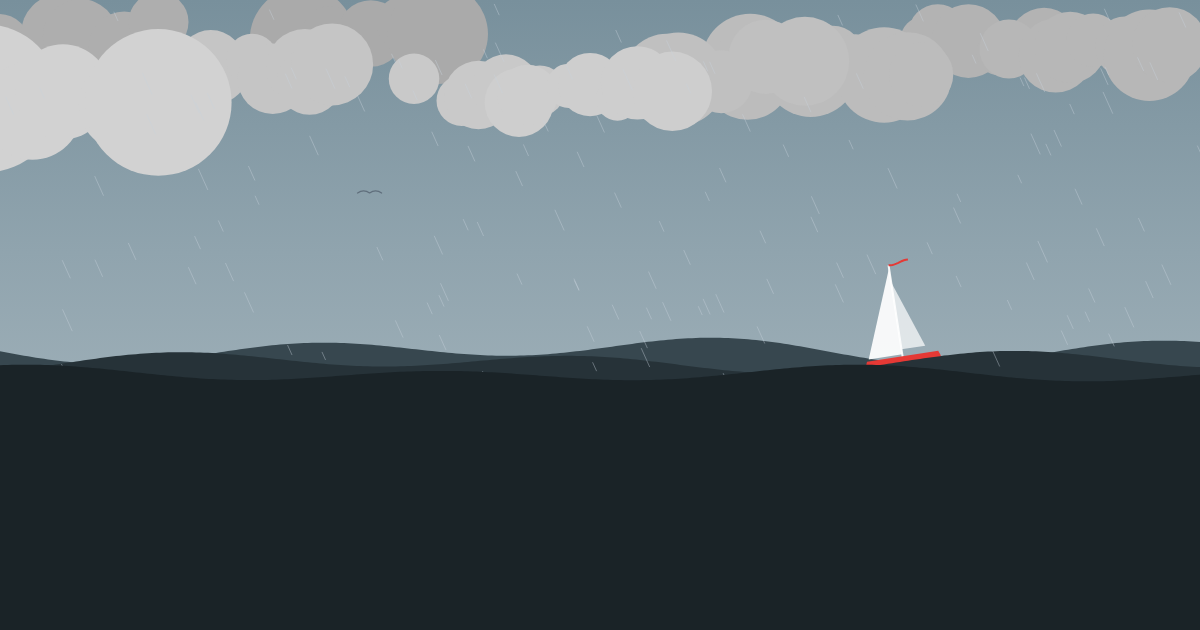
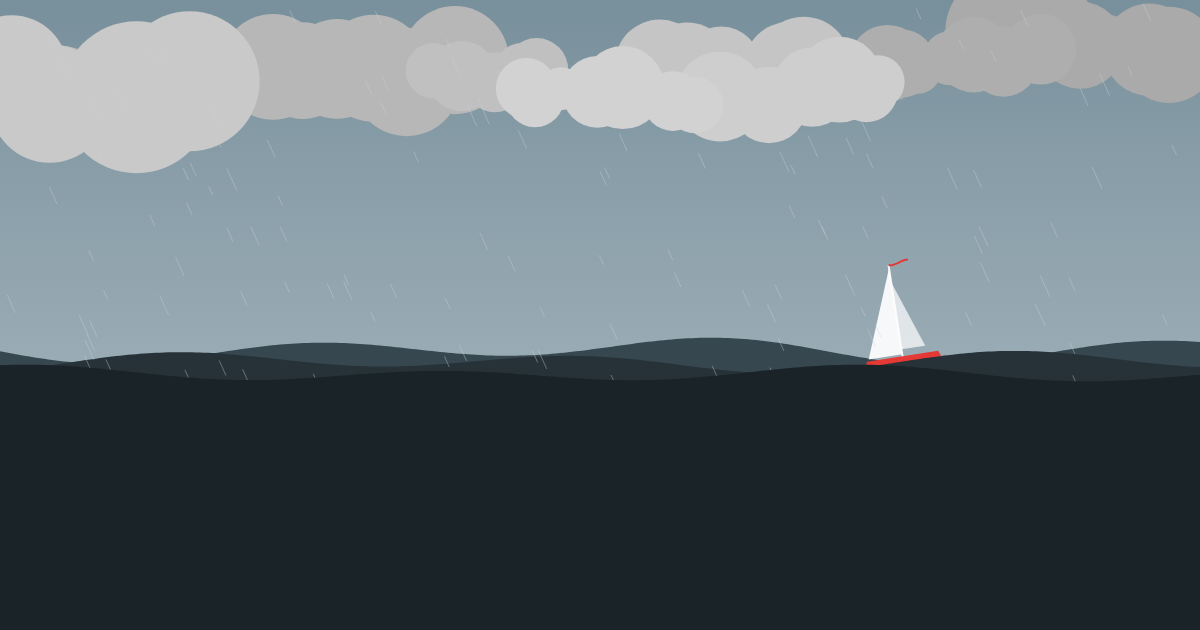
Robots.txt and some things

diff --git a/static/simulation.js b/static/simulation.js
@@ -236,6 +236,15 @@
         return '#'+((1<<24)|(r<<16)|(g<<8)|bl).toString(16).slice(1);
       }
 
+      // Bird scheduling state. First appearance is random 20-60s after load so
+      // the bird never shows up at t=0 mid-flight, and it always enters from
+      // off the left/right edge rather than popping into view on screen.
+      var birdCrossDur = 28;  // seconds to cross (slower than before)
+      var birdInFlight = false;
+      var birdStartAt = 0;
+      var birdDirection = Math.random() < 0.5 ? 1 : -1;
+      var nextBirdAt = 20 + Math.random() * 40;
+
       var t = 0;
       function draw() {
         t += 0.016;
@@ -326,34 +335,45 @@
         }
 
         // --- Bird ---
-        // A distant seagull silhouette. Each cycle the bird crosses the sky
-        // once then stays off-screen for the remainder, so appearances are
-        // infrequent. Suppressed in heavy precip / storm conditions.
-        var birdCycle = 55 - windFactor * 15; // seconds between appearances
-        var birdVisibleFrac = 0.22;           // fraction of cycle the bird is visible
-        var cyclePhase = ((t + 3) % birdCycle) / birdCycle;
-        if (!isStormy && !hasEffect('heavyrain') && !hasEffect('hail') && cyclePhase < birdVisibleFrac) {
-          var birdPhase = cyclePhase / birdVisibleFrac; // 0..1 across the screen
-          var bx = -40 + birdPhase * (W + 80);
-          // Sit closer to the horizon to read as distant (atmospheric perspective).
-          var bobY = Math.max(60, horizon * 0.55);
-          var by = bobY + Math.sin(t * 0.9) * 5 + Math.sin(t * 0.4) * 3;
-          var flap = 0.55 + Math.sin(t * 7.5) * 0.45; // 0..1
-          var wingSpan = 12;
-          var wingDip = 5 * flap;
-          ctx.save();
-          ctx.strokeStyle = isFoggy ? 'rgba(110,118,130,0.4)' : 'rgba(60,70,85,0.55)';
-          ctx.lineWidth = 1.3;
-          ctx.lineCap = 'round';
-          ctx.lineJoin = 'round';
-          ctx.beginPath();
-          // Left wing arc
-          ctx.moveTo(bx - wingSpan, by);
-          ctx.quadraticCurveTo(bx - wingSpan * 0.5, by - wingDip, bx, by);
-          // Right wing arc
-          ctx.quadraticCurveTo(bx + wingSpan * 0.5, by - wingDip, bx + wingSpan, by);
-          ctx.stroke();
-          ctx.restore();
+        // Distant seagull silhouette, scheduled with random gaps between
+        // appearances. Always enters from off-screen; never visible at load
+        // time. Suppressed in heavy precip / storm conditions.
+        var birdAllowed = !isStormy && !hasEffect('heavyrain') && !hasEffect('hail');
+        if (birdAllowed) {
+          if (!birdInFlight && t >= nextBirdAt) {
+            birdInFlight = true;
+            birdStartAt = t;
+            birdDirection = Math.random() < 0.5 ? 1 : -1;
+          }
+          if (birdInFlight) {
+            var elapsed = t - birdStartAt;
+            if (elapsed >= birdCrossDur) {
+              birdInFlight = false;
+              // 45-120s quiet gap before the next bird.
+              nextBirdAt = t + 45 + Math.random() * 75;
+            } else {
+              var birdPhase = elapsed / birdCrossDur; // 0..1
+              var bx = birdDirection === 1
+                ? -40 + birdPhase * (W + 80)
+                : (W + 40) - birdPhase * (W + 80);
+              var bobY = Math.max(60, horizon * 0.55);
+              var by = bobY + Math.sin(t * 0.9) * 5 + Math.sin(t * 0.4) * 3;
+              var flap = 0.55 + Math.sin(t * 7.5) * 0.45;
+              var wingSpan = 12;
+              var wingDip = 5 * flap;
+              ctx.save();
+              ctx.strokeStyle = isFoggy ? 'rgba(110,118,130,0.4)' : 'rgba(60,70,85,0.55)';
+              ctx.lineWidth = 1.3;
+              ctx.lineCap = 'round';
+              ctx.lineJoin = 'round';
+              ctx.beginPath();
+              ctx.moveTo(bx - wingSpan, by);
+              ctx.quadraticCurveTo(bx - wingSpan * 0.5, by - wingDip, bx, by);
+              ctx.quadraticCurveTo(bx + wingSpan * 0.5, by - wingDip, bx + wingSpan, by);
+              ctx.stroke();
+              ctx.restore();
+            }
+          }
         }
 
         // --- Lightning bolts ---
@@ -683,4 +703,3 @@
         }
       });
     })();
-    

diff --git a/wind_notice.py b/wind_notice.py
@@ -2,6 +2,7 @@
 """Fern Ridge Sailing Forecast - 7-day forecast scored for sailing quality."""
 
 import argparse
+import hashlib
 import logging
 import os
 import random
@@ -315,13 +316,30 @@ def get_score_color(score):
         return "#b71c1c"  # red
 
 
+def _compute_simulation_js_version():
+    """Hash static/simulation.js for cache busting. Computed once at import."""
+    path = os.path.join(os.path.dirname(os.path.abspath(__file__)), "static", "simulation.js")
+    try:
+        with open(path, "rb") as f:
+            return hashlib.sha256(f.read()).hexdigest()[:12]
+    except OSError:
+        return ""
+
+
+_SIMULATION_JS_VERSION = _compute_simulation_js_version()
+
+
 def _simulation_block(cond_cloud, cond_wind, cond_gust, cond_precip, cond_temp, cond_weather_code):
     """Return the <canvas> + simulation bootstrap for inclusion in a page.
 
     The heavy simulation JS lives in static/simulation.js so browsers can
     cache it; here we just emit the canvas, inject initial weather values as
-    a small global, and load the external script.
+    a small global, and load the external script. The script URL carries a
+    content-hash query string so browsers re-fetch it when the file changes.
     """
+    src = "/static/simulation.js"
+    if _SIMULATION_JS_VERSION:
+        src += "?v=" + _SIMULATION_JS_VERSION
     return (
         '    <canvas id="bg-canvas" style="position:fixed;top:0;left:0;'
         'width:100%;height:100%;z-index:0"></canvas>\n'
@@ -330,7 +348,7 @@ def _simulation_block(cond_cloud, cond_wind, cond_gust, cond_precip, cond_temp, 
         f'"gust": {cond_gust:.1f}, "precip": {cond_precip:.2f}, '
         f'"temp": {cond_temp:.1f}, "weather_code": {cond_weather_code}'
         '};</script>\n'
-        '    <script src="/static/simulation.js"></script>'
+        f'    <script src="{src}"></script>'
     )
 
 

diff --git a/app.py b/app.py
@@ -241,6 +241,16 @@ def create_app():
             '</body></html>'
         )
 
+    @app.route("/robots.txt")
+    def robots():
+        body = (
+            "User-agent: *\n"
+            "Allow: /\n"
+            "Disallow: /healthz\n"
+            "Disallow: /simulation\n"
+        )
+        return body, 200, {"Content-Type": "text/plain; charset=utf-8"}
+
     @app.route("/healthz")
     def health():
         with _report_lock: